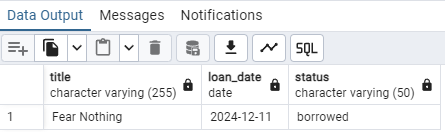
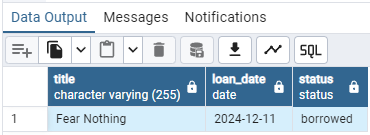
Add status type, small fixes

diff --git a/README.md b/README.md
@@ -25,30 +25,30 @@ requirements
 ```sql
 CREATE EXTENSION IF NOT EXISTS "uuid-ossp";
 
-CREATE TABLE Users (
+CREATE TABLE users (
     user_id UUID PRIMARY KEY DEFAULT uuid_generate_v4(),
     full_name VARCHAR(255) NOT NULL,
-    email VARCHAR(255) UNIQUE NOT NULL,
+    email VARCHAR(128) UNIQUE NOT NULL,
     membership_date DATE NOT NULL
   );
-  
-CREATE TABLE Books (
+ 
+CREATE TABLE books (
+	isbn VARCHAR(17) PRIMARY KEY NOT NULL,
     title VARCHAR(255) NOT NULL,
     author VARCHAR(255) NOT NULL,
-    isbn VARCHAR(17) PRIMARY KEY NOT NULL,
     genre VARCHAR(50),
     published_year INT,
-    quantity_available INT NOT NULL,
-  );
-  
-CREATE TABLE Book_Loans (
-    user_id UUID REFERENCES Users (user_id) ON DELETE CASCADE,
-    isbn VARCHAR(17) REFERENCES Books (isbn) ON DELETE CASCADE,
-    loan_date DATE NOT NULL,
-    return_date DATE,
-    status VARCHAR(50) NOT NULL
+    quantity_available INT NOT NULL
   );
 
+CREATE TYPE STATUS AS ENUM('borrowed', 'returned', 'overdue');
+CREATE TABLE book_loans (
+    user_id UUID REFERENCES users (user_id) ON DELETE CASCADE NOT NULL,
+    isbn VARCHAR(17) REFERENCES books (isbn) ON DELETE CASCADE NOT NULL,
+    loan_date DATE NOT NULL,
+    return_date DATE,
+    status STATUS NOT NULL
+  );
 ```
 
 ## SQL Queries
@@ -56,7 +56,7 @@ CREATE TABLE Book_Loans (
 
 [Query 1](queries/1_output.sql)
 ```sql
-INSERT INTO Books (title, author, isbn, genre, published_year, quantity_available) 
+INSERT INTO books (title, author, isbn, genre, published_year, quantity_available) 
 VALUES ('Fear Nothing', 'Dean Koontz', '9780553479003', 'thriller', 1997, 5)
 RETURNING *;
 ```
@@ -66,7 +66,7 @@ RETURNING *;
 
 [Query 2](queries/2_output.sql)
 ```sql
-INSERT INTO Users (full_name, email, membership_date) 
+INSERT INTO users (full_name, email, membership_date) 
 VALUES ('Shishh', 'wooaah@gmail.com', CURRENT_DATE)
 RETURNING *;
 ```
@@ -76,9 +76,33 @@ RETURNING *;
 
 [Query 3](queries/3_output.sql)
 ```sql
-INSERT INTO Book_Loans (user_id, isbn, loan_date, status) 
-VALUES ('17796446-e394-48d1-9f5d-b5f011dbbe3e', '9780553479003', CURRENT_DATE, 'borrowed')
-RETURNING *;
+DO $$
+DECLARE
+    p_user_id UUID = 'caf349f9-e451-462f-a67a-2a5c80ffaf75';
+    p_isbn VARCHAR(17) = '9780553479003';
+    available_count INT;
+BEGIN
+    SELECT quantity_available INTO available_count 
+    FROM books 
+    WHERE isbn = p_isbn;
+
+    --check for possible errors
+    IF available_count IS NULL THEN
+        RAISE EXCEPTION 'Book not found.';
+    ELSIF available_count <= 0 THEN
+        RAISE EXCEPTION 'Sorry. There are no copies left for this book.';
+    END IF;
+
+   --insert to book loans table
+    INSERT INTO book_loans (user_id, isbn, loan_date, status) 
+    VALUES (p_user_id, p_isbn, CURRENT_DATE, 'borrowed');
+
+    --update qty
+    UPDATE books 
+    SET quantity_available = quantity_available - 1 
+    WHERE isbn = p_isbn;
+
+END $$;
 ```
 ![Output of query 3](queries/3_output.png)
 
@@ -87,24 +111,23 @@ RETURNING *;
 [Query 4](queries/4_output.sql)
 ```sql
 SELECT b.title, bl.loan_date, bl.status
-FROM Books b 
-JOIN Book_Loans bl ON b.ISBN = bl.ISBN 
-WHERE bl.User_ID = '17796446-e394-48d1-9f5d-b5f011dbbe3e';
+FROM books b 
+JOIN book_loans bl ON b.isbn = bl.isbn 
+WHERE bl.user_id = 'caf349f9-e451-462f-a67a-2a5c80ffaf75';
 ```
 ![Output of query 4](queries/4_output.png)
 
-5. Add a new user to the system.
+5. List all overdue loans.
 
 [Query 5](queries/5_output.sql)
 ```sql
-SELECT *
-FROM Book_Loans
+SELECT * FROM book_loans
 WHERE status = 'overdue';
 ```
 ![Output of query 5](queries/5_output.png)
 
-## Data Integrity and Optimization
 
+## Data Integrity and Optimization
 
 
 ## Reflection
